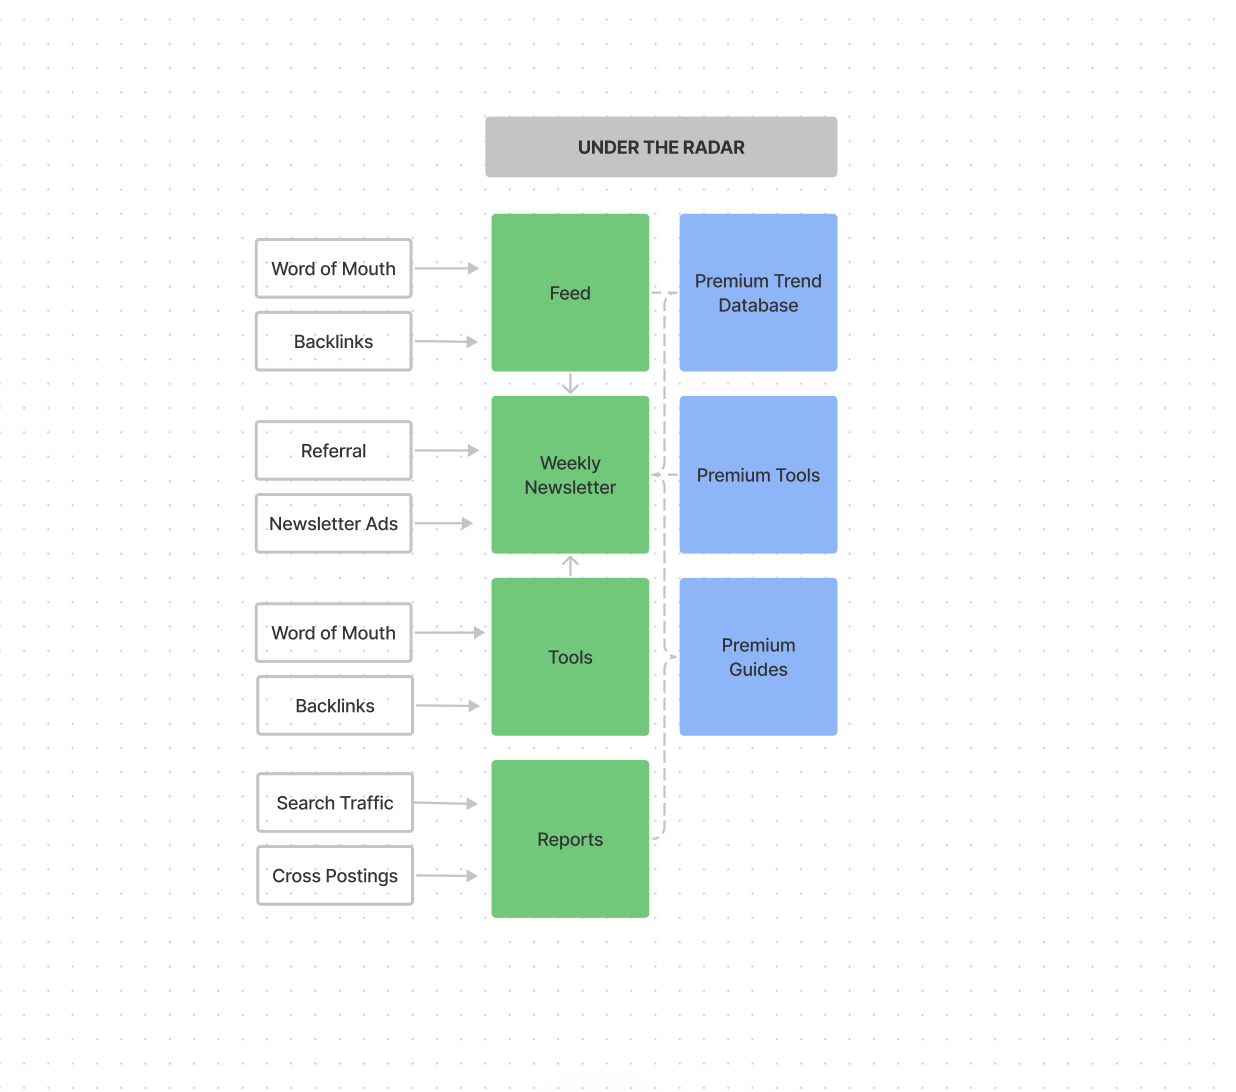
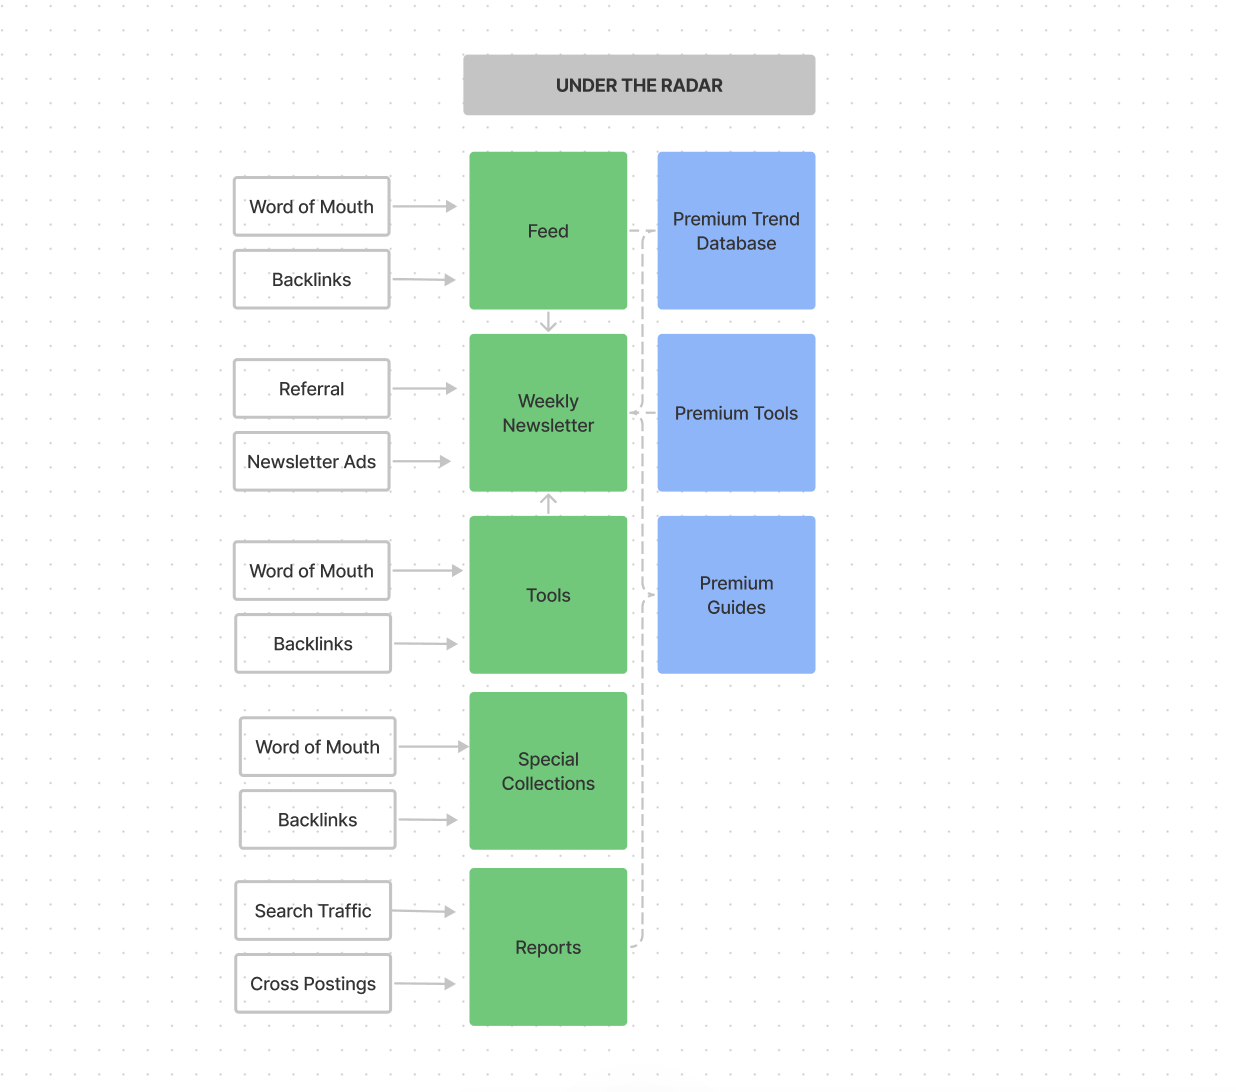
game plan

Changed region(s): [[0.1845, 0.0311, 0.6764, 0.9652]]

diff --git a/_posts/2022-03-08-game-plan.md b/_posts/2022-03-08-game-plan.md
@@ -74,7 +74,7 @@ Good elementary building blocks either bring in traffic (green) or generate reve
 
 And of course it’s not enough to just have a vague feeling that something might help to bring in traffic or generate more revenue. There has to be a plausible story for every single block. 
 
-For example, the daily updated trend feed is freely accessible and is something people (hopefully) start talking about organically. If that happens, it’ll also help attract backlinks and hence boost the sites search rankings. The same is true for various trend research tools I can launch pretty quickly. 
+For example, the daily updated trend feed is freely accessible and is something people (hopefully) start talking about organically. If that happens, it’ll also help attract backlinks and hence boost the sites search rankings. The same is true for various simple trend research tools and special collections like "the 100 fastest-growing YC companies by search interest".
 
 Once this worked, I can start publishing free trend reports focused on keywords people commonly search for. I will then also be able to post summaries of these posts on sites like Reddit to generate more traffic. 
 
